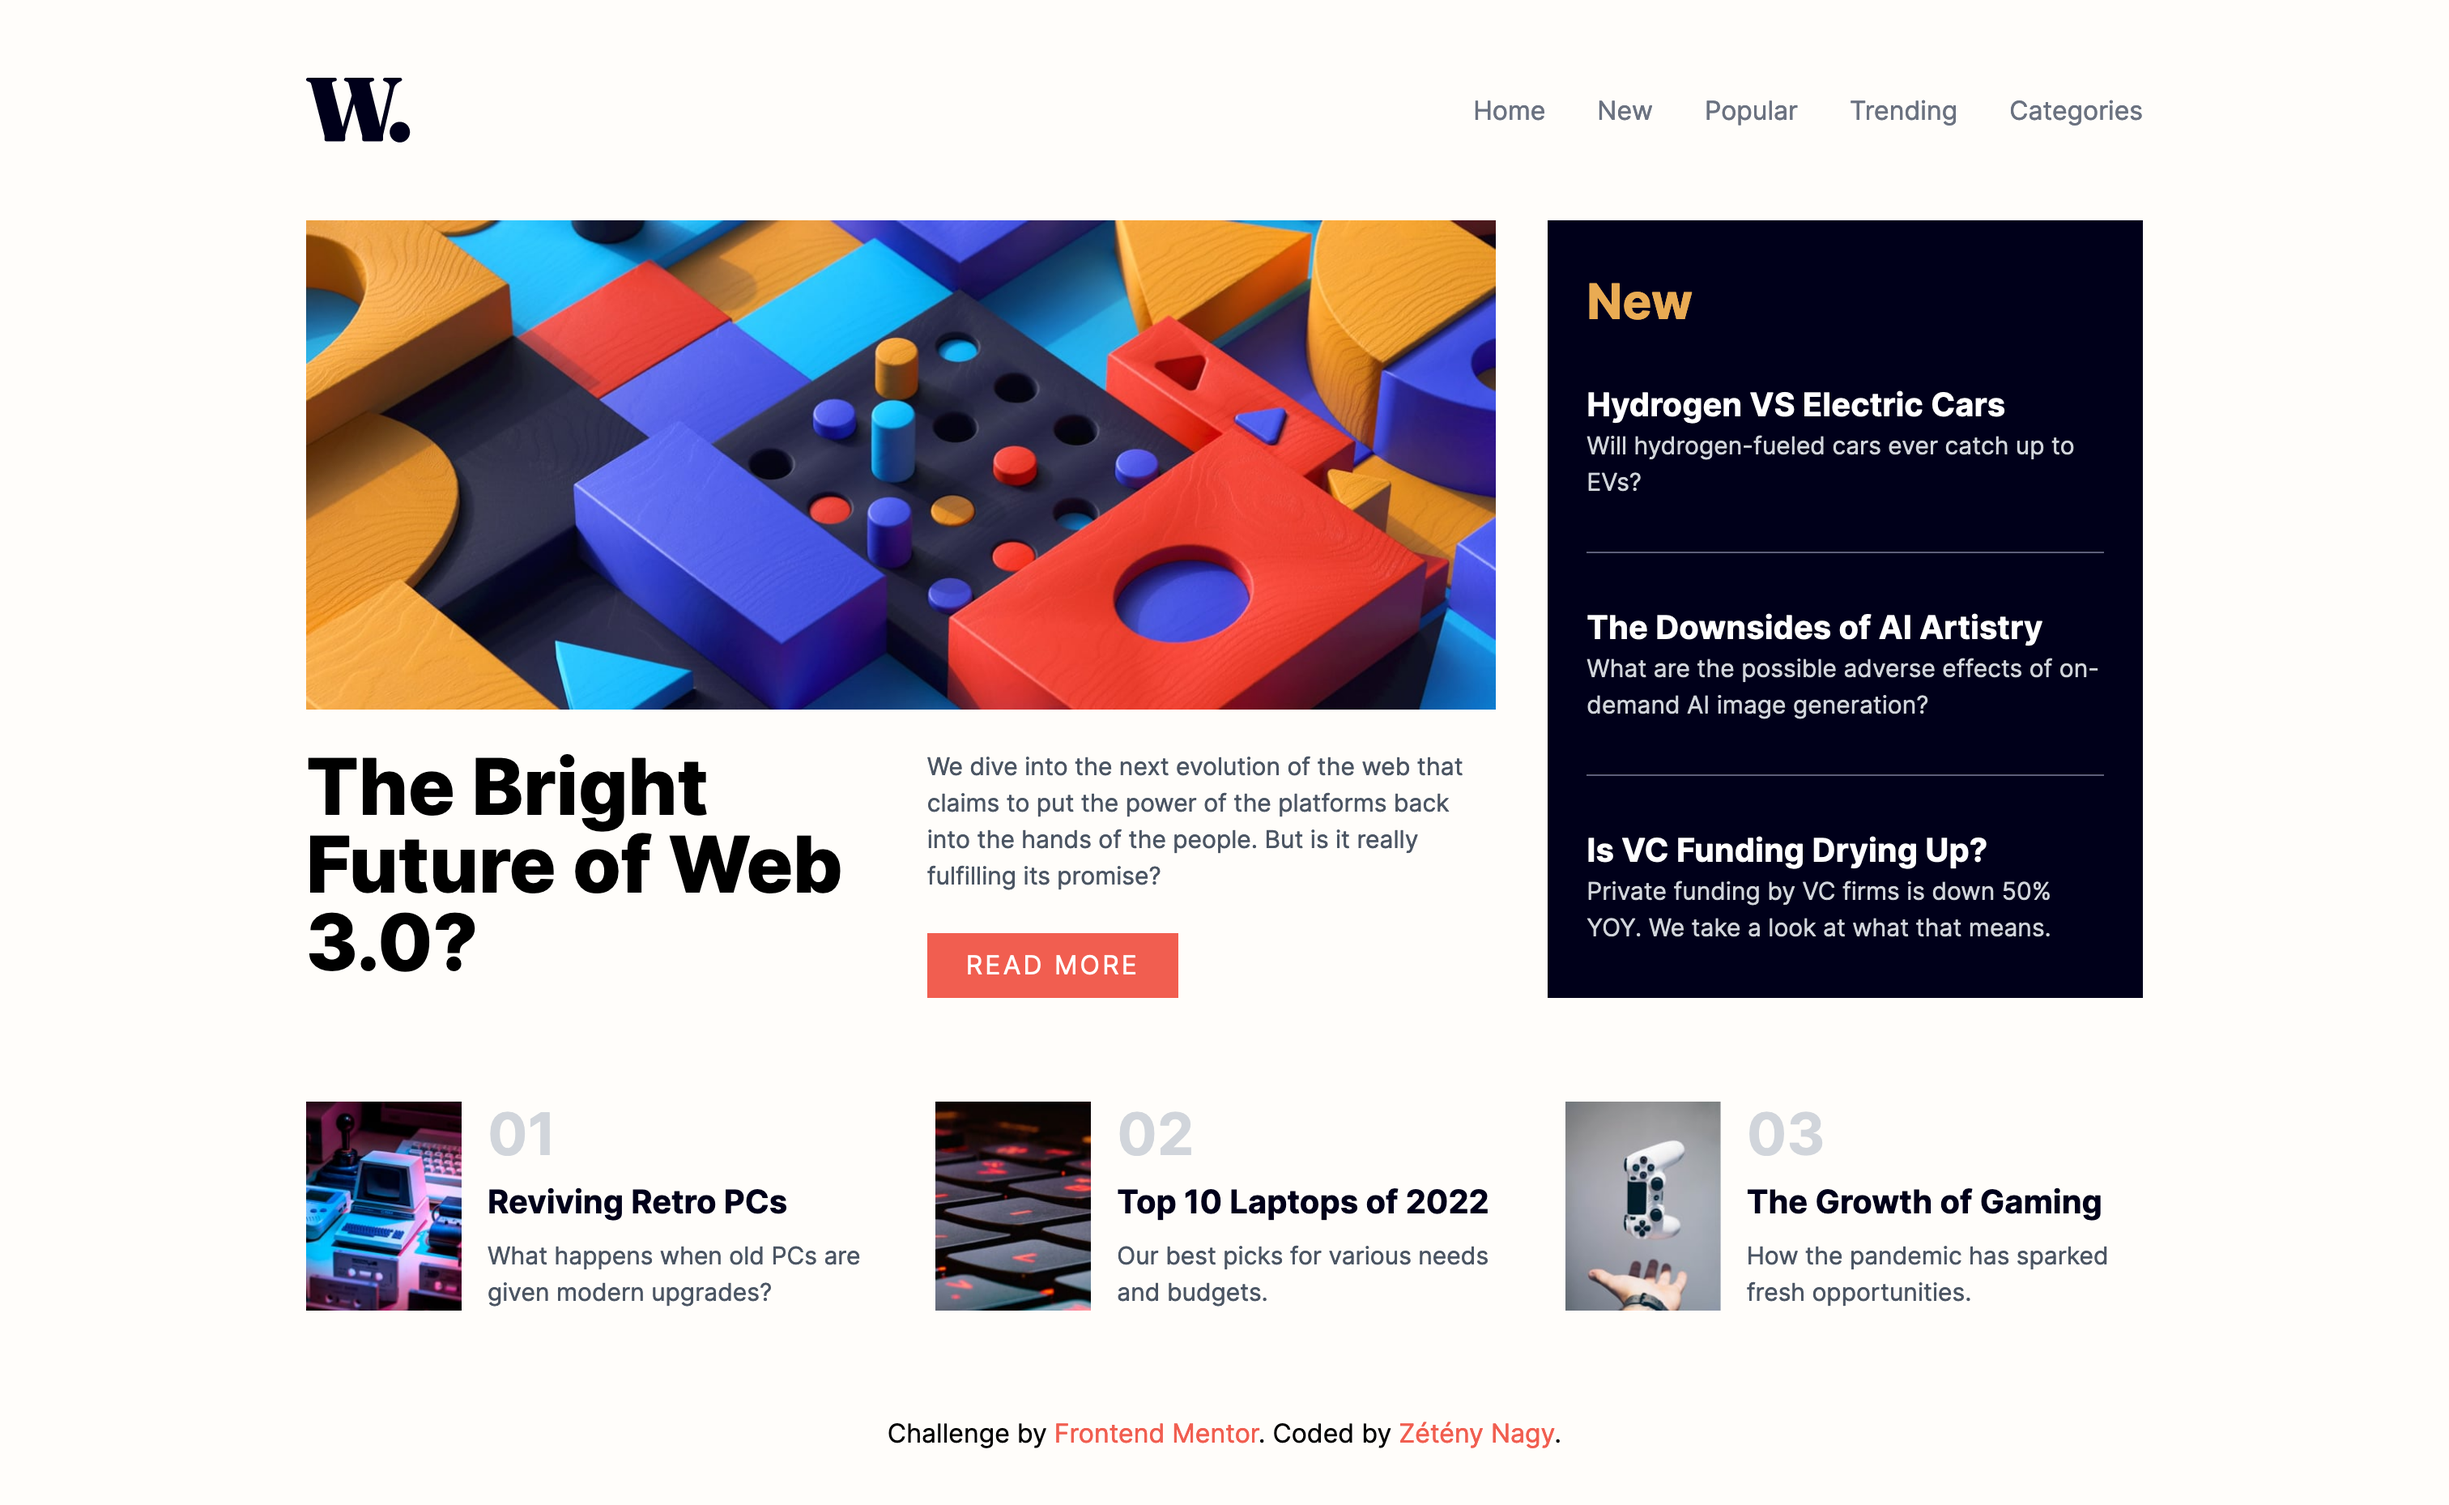
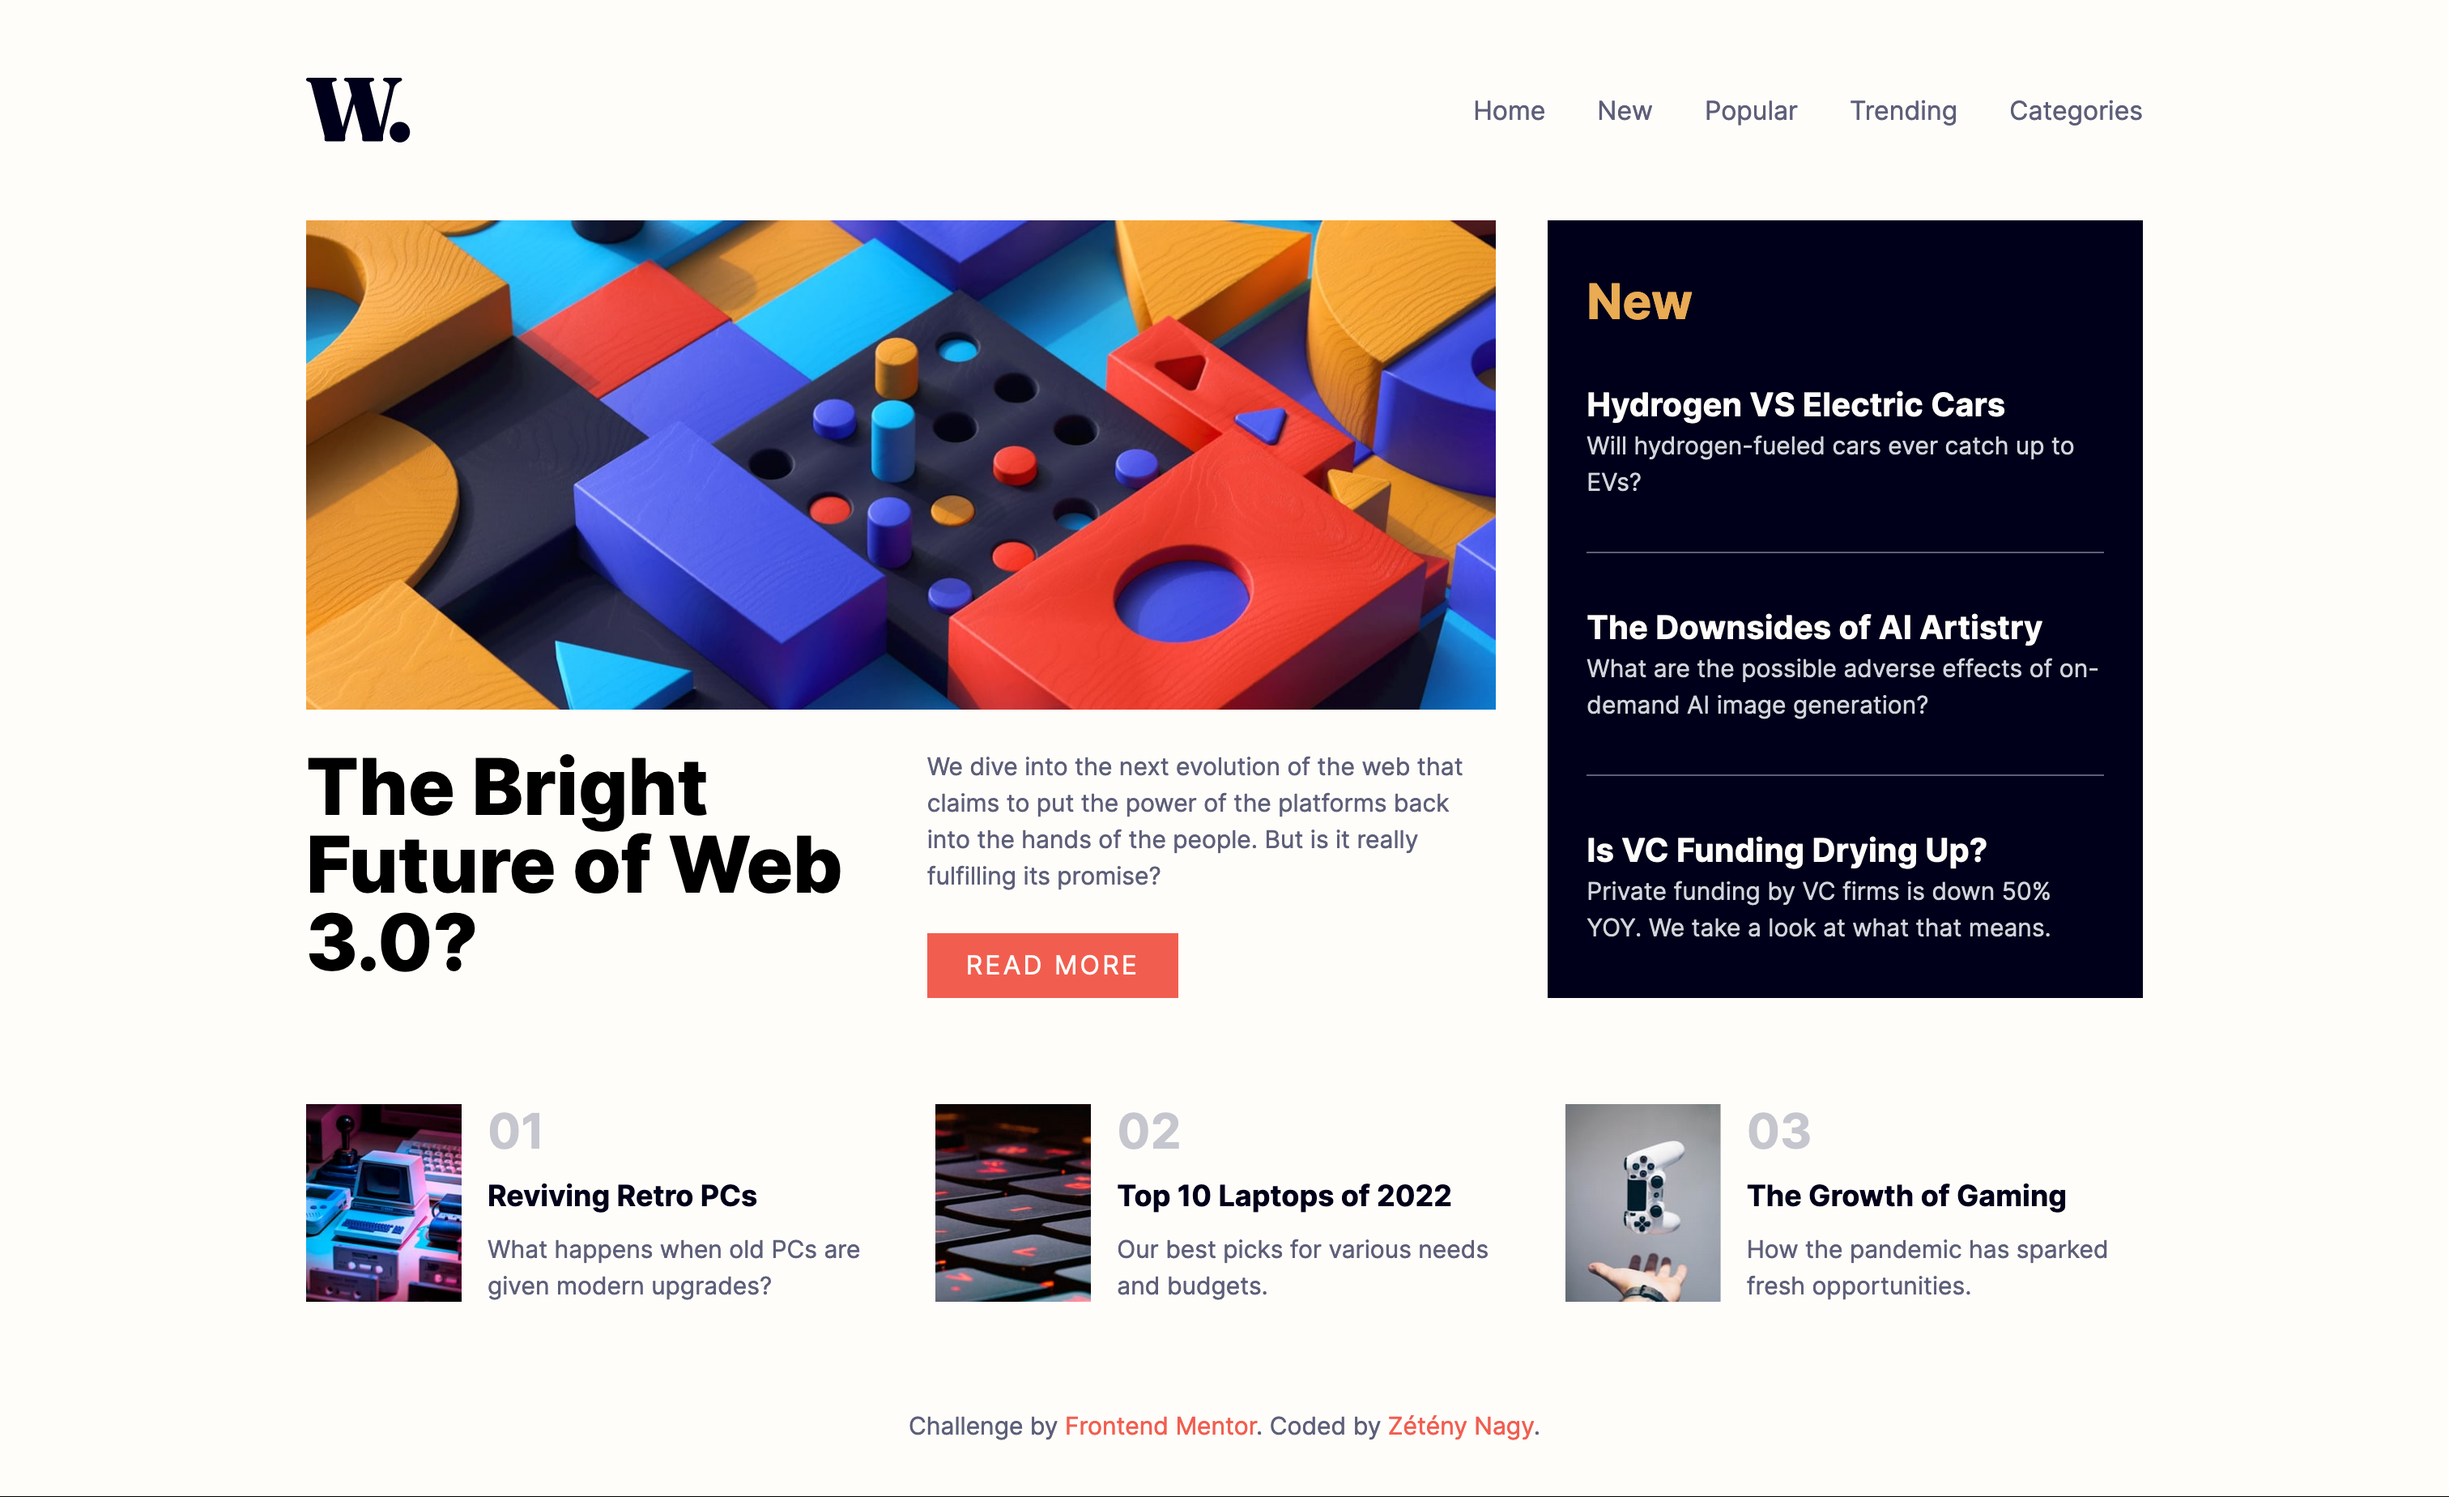
colors, breakpoints, small fixes

diff --git a/src/components/navigation.tsx b/src/components/navigation.tsx
@@ -60,7 +60,7 @@ export const Navigation: React.FC = () => {
           {navItems.map(({ name, path }) => (
             <li key={path}>
               <a
-                className="text-xl text-gray-500 transition-colors hover:text-soft-red lg:text-base"
+                className="text-xl text-dark-grayish-blue transition-colors hover:text-soft-red lg:text-base"
                 onClick={handleClose}
                 href={path}
               >

diff --git a/src/styles/globals.css b/src/styles/globals.css
@@ -1,3 +1,3 @@
 p {
-  @apply text-[15px] text-gray-600;
+  @apply text-[15px] text-dark-grayish-blue;
 }

diff --git a/README.md b/README.md
@@ -41,7 +41,5 @@ Users should be able to:
 
 ## TODO
 
-- [ ] Fix image responsiveness
 - [ ] Simplify code
 - [ ] Hamburger menu animation
-- [x] Maybe add meta tags
